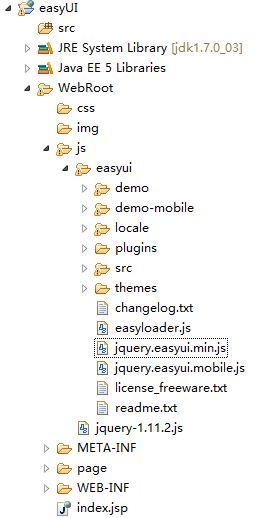
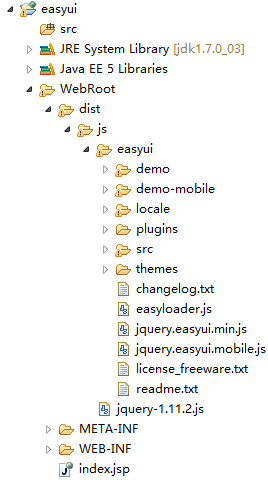
添加了代码

diff --git a/_posts/jQuery-easyui基础教程/2016-08-12-jQuery-easyui基础教程-lession02.md b/_posts/jQuery-easyui基础教程/2016-08-12-jQuery-easyui基础教程-lession02.md
@@ -19,97 +19,86 @@ description:
 
 ## Dialog简介
 
-对话框是一种特殊类型的窗口，在现在的系统中使用越来越多。如，添加，修改，删除的提示等功能，使用对话框更加贴近用户的要求，开发人员开发程序也更加简单。它在顶部有一个工具栏，在底部有一个按钮栏。对话框窗口右上角只有一个关闭按钮，用户可以配置对话框的行为来显示其他工具，如collapsible,minimizable,maximizable工具等。默认情况下，对话框（Dialog）不能改变大小，但是用户可以设置 resizable 属性为 true，使其可以改变大小。 效果如下图：
+对话框是一种特殊类型的窗口，在现在的系统中使用越来越多。如，添加，修改，删除的提示等功能，使用对话框更加贴近用户的要求，开发人员开发程序也更加简单。它在顶部有一个工具栏，在底部有一个按钮栏。对话框窗口右上角只有一个关闭按钮，用户可以配置对话框的行为来显示其他工具，如collapsible,minimizable,maximizable工具等。默认情况下，对话框（Dialog）不能改变大小，但是用户可以设置resizable属性为true，使其可以改变大小。 效果如下图：
 
 ![image](http://i.imgur.com/XmddMrE.png)
 
 ## 开发Dialog程序
 
+
 ##### 方式一：使用纯HTML代码
 
 ```
-<!DOCTYPE html>   
-<html>  
-	<head>  
-		<title>dialog01.html</title>   
-		<link rel="stylesheet" type="text/css" href="/easyUI/js/easyui/themes/default/easyui.css">  
-		<link rel="stylesheet" type="text/css" href="/easyUI/js/easyui/themes/icon.css">   
-		<script type="text/javascript" src="/easyUI/js/jquery-1.11.2.js"></script>   
-		<script type="text/javascript" src="/easyUI/js/easyui/easyloader.js"></script>   
-	</head>   
-	<body>  
-		<div id="dd" class="easyui-dialog" title="My Dialog" style="width:400px;height:200px;" data-options="iconCls:'icon-save',resizable:true,modal:true">   
-			Dialog Content.   
-		</div>  
-	</body>  
-</html>  
+<link rel="stylesheet" type="text/css" href="../dist/js/easyui/themes/default/easyui.css">
+<link rel="stylesheet" type="text/css" href="../dist/js/easyui/themes/icon.css">
+<script type="text/javascript" src="../dist/js/jquery-1.11.2.js"></script>
+<script type="text/javascript" src="../dist/js/easyui/easyloader.js"></script>  
+
+<div id="dd" class="easyui-dialog" title="My Dialog" style="width:400px;height:200px;" data-options="iconCls:'icon-save',resizable:true,modal:true">   
+	Dialog Content.   
+</div>  
 ```
 
+**参考代码:```[02/dialog01.html](https://coding.net/u/lanqiao/p/easyuiDemo/git/blob/master/WebRoot/02/dialog01.html)```**  
+
 Tip: Dialog所需的属性可以类似于以上代码放到data-options属性中，此外也可以像HTML属性一样直接跟在开始标签内。 **强烈建议放到data-options属性中。**
+
 
 ##### 方式二：使用JS代码设置
 
 ```
-<!DOCTYPE html>
-<html>  
-	<head> 
-		<title>dialog02.html</title>  
-		<link rel="stylesheet" type="text/css" href="/easyUI/js/easyui/themes/default/easyui.css"> 
-		<link rel="stylesheet" type="text/css" href="/easyUI/js/easyui/themes/icon.css">  
-		<script type="text/javascript" src="/easyUI/js/jquery-1.11.2.js"></script> 
-		<script type="text/javascript" src="/easyUI/js/easyui/easyloader.js"></script> 
-		<script type="text/javascript">  
-			$(function(){ 
-				easyloader.load("dialog",function(){ 
-					$("#dd").dialog({  
-						title: 'My Dialog',     
-						width: 400,   
-						height: 200,    
-						closed: false,    
-						modal: true 
-					});  
-				});  
+<link rel="stylesheet" type="text/css" href="../dist/js/easyui/themes/default/easyui.css">
+<link rel="stylesheet" type="text/css" href="../dist/js/easyui/themes/icon.css">
+<script type="text/javascript" src="../dist/js/jquery-1.11.2.js"></script>
+<script type="text/javascript" src="../dist/js/easyui/easyloader.js"></script>
+<script type="text/javascript">  
+	$(function(){ 
+		easyloader.load("dialog",function(){ 
+			$("#dd").dialog({  
+				title: 'My Dialog',     
+				width: 400,   
+				height: 200,    
+				closed: false,    
+				modal: true 
 			});  
-		</script> 
-	</head>  
-	<body>  
-	<div id="dd">  
+		});  
+	});  
+</script> 
+
+<div id="dd">  
 	Dialog Content.  
-	</div>  
-	</body>  
-</html> 
+</div>  
 ```
 
-此外，也可以不引入easyloader.js文件，引入具体所需的js文件。代码如下：
+**参考代码:```[02/dialog02.html](https://coding.net/u/lanqiao/p/easyuiDemo/git/blob/master/WebRoot/02/dialog02.html)```**    
+
+此外，也可以不引入easyloader.js文件，引入jquery.easyui.min.js文件。代码如下：
 
 ```
-<!DOCTYPE html>  
-<html>  
-	<head>  
-		<link rel="stylesheet" type="text/css" href="/easyUI/js/easyui/themes/default/easyui.css">  
-		<link rel="stylesheet" type="text/css" href="/easyUI/js/easyui/themes/icon.css">  
-		<script type="text/javascript" src="/easyUI/js/jquery-1.11.2.js"></script>  
-		<script type="text/javascript" src="/easyUI/js/easyui/jquery.easyui.min.js"></script> 
-		<script type="text/javascript"> 
-			$(function(){  
-				$("#dd").dialog({ 
-					title: 'My Dialog',   
-					iconCls:'icon-save',  
-					width: 400,   
-					height: 200,   
-					closed: false,
-					modal: true 
-				}); 
-			});  
-		</script>  
-	</head>  
-	<body>  
-		<div id="dd"> 
-			Dialog Content. 
-		</div>  
-	</body> 
-</html> 
+<link rel="stylesheet" type="text/css" href="../dist/js/easyui/themes/default/easyui.css">
+<link rel="stylesheet" type="text/css" href="../dist/js/easyui/themes/icon.css">
+<script type="text/javascript" src="../dist/js/jquery-1.11.2.js"></script>
+<script type="text/javascript" src="../dist/js/easyui/jquery.easyui.min.js"></script> 
+<script type="text/javascript"> 
+	$(function(){  
+		$("#dd").dialog({ 
+			title: 'My Dialog',   
+			iconCls:'icon-save',  
+			width: 400,   
+			height: 200,   
+			closed: false,
+			modal: true 
+		}); 
+	});  
+</script>  
+
+<div id="dd"> 
+	Dialog Content. 
+</div>  
 ```
+
+**参考代码:```[02/dialog03.html](https://coding.net/u/lanqiao/p/easyuiDemo/git/blob/master/WebRoot/02/dialog03.html)```**  
+
 
 ## Dialog常用属性
 
@@ -247,6 +236,8 @@ Tip: Dialog所需的属性可以类似于以上代码放到data-options属性中
 </body>   
 ```
 
+**参考代码:```[02/dialog04.html](https://coding.net/u/lanqiao/p/easyuiDemo/git/blob/master/WebRoot/02/dialog04.html)```**  
+
 效果如下：  
 
 ![image](http://i.imgur.com/XB52TZF.png)  
@@ -327,8 +318,8 @@ JS代码
 	function closeDialog(){
 		$('#dd').dialog('close');
 	}
-	function skip(){
-		$('#dd').panel('refresh','a.html');
+	function skip() {
+		$('#dd').panel('refresh', '../index.jsp');
 	}
 </script>
 ```
@@ -348,7 +339,9 @@ HTML代码
 </div>  
 ```
 
-Tip: 当点击关闭按钮时会弹出确认框。当点击跳转按钮时对话框中将显示a.html页面中的内容。 
+**参考代码:```[02/dialog05.html](https://coding.net/u/lanqiao/p/easyuiDemo/git/blob/master/WebRoot/02/dialog05.html)```**  
+
+Tip: 当点击关闭按钮时会弹出确认框。当点击跳转按钮时对话框中将显示index.jsp页面中的内容。 
 
  
 以上内容便是Dialog的普通用法。

diff --git a/_posts/jQuery-easyui基础教程/2016-09-02-jQuery-easyui基础教程-lession23.md b/_posts/jQuery-easyui基础教程/2016-09-02-jQuery-easyui基础教程-lession23.md
@@ -62,10 +62,10 @@ description:
  
 效果如上图。
 
-**自定义下拉框使用Javascript创建一个\<select\>或\<input\>元素。注意：使用自定义下拉框不能通过标签的方式进行创建。** 
+**自定义下拉框使用Javascript创建一个```<select>```或```<input>```元素。注意：使用自定义下拉框不能通过标签的方式进行创建。** 
 
 
-## Combo常用属性
+## Combo常用属性  
 
 <table class="table table-bordered table-striped table-condensed">
    <tr>
@@ -127,6 +127,7 @@ description:
 	  <td>string</td>
 	  <td>面板对齐方式。可用值有：'left','right'。</td>
 	  <td>200</td>
+   </tr>
    <tr>
       <td>multiple</td>
 	  <td>boolean</td>
@@ -187,11 +188,11 @@ description:
 	  <td>在用户按下键的时候调用一个函数。</td>
 	  <td></td>
    </tr>
-</table>
+</table>  
 
 案例一：  
 
-代码如下：
+代码如下：  
 
 ```
 $('#cc').combo({
@@ -251,7 +252,7 @@ $('#cc').combo({
    <tr>
       <td>hidePanel</td> 
       <td>none</td> 
-      <td>隐藏下拉面板。/td>
+      <td>隐藏下拉面板。</td>
    </tr>
    <tr>
       <td>disable</td> 
@@ -556,7 +557,7 @@ $('#cc').combobox({
 </table> 
 
 
-##### 实现级联下拉列表  
+## 实现级联下拉列表  
 
 HTML代码：  
 

diff --git a/_posts/jQuery-easyui基础教程/2016-08-25-jQuery-easyui基础教程-lession17.md b/_posts/jQuery-easyui基础教程/2016-08-25-jQuery-easyui基础教程-lession17.md
@@ -25,7 +25,7 @@ description:
 
 ## 开发Tree程序
 
-一个树形菜单（Tree）可以从标记创建。easyui 树形菜单（Tree）也可以定义在 \<ul\> 元素中。无序列表的 \<ul\> 元素提供一个基础的树（Tree）结构。每一个 \<li\> 元素将产生一个树节点，子 \<ul\> 元素将产生一个子树节点。
+一个树形菜单（Tree）可以从标记创建。easyui 树形菜单（Tree）也可以定义在 ```<ul>``` 元素中。无序列表的 ```<ul>``` 元素提供一个基础的树（Tree）结构。每一个 ```<li>``` 元素将产生一个树节点，子 ```<ul>``` 元素将产生一个子树节点。
 
 ```
 <ul id="tt" class="easyui-tree">
@@ -53,7 +53,7 @@ description:
 ![image](http://i.imgur.com/rxscZhv.png)
 
 
-**树控件也可以定义在一个空\<ul\>元素中并使用Javascript加载数据。**
+**树控件也可以定义在一个空```<ul>```元素中并使用Javascript加载数据。**
 
 ``` 
 <ul id="tt"></ul>

diff --git a/_posts/jQuery-easyui基础教程/2016-08-19-jQuery-easyui基础教程-lession11.md b/_posts/jQuery-easyui基础教程/2016-08-19-jQuery-easyui基础教程-lession11.md
@@ -19,7 +19,7 @@ description:
 ## Accordion简介
 
   
-分类空间允许用户使用多面板，但在同一时间只会显示一个。每个面板都内建支持展开和折叠功能。点击一个面板的标题将会展开或折叠面板主体。面板内容可以通过指定的'href'属性使用ajax方式读取面板内容。用户可以定义一个被默认选中的面板，如果未指定，那么第一个面板就是默认的。效果如图：
+分类空间允许用户使用多面板，但在同一时间只会显示一个。每个面板都内建支持展开和折叠功能。点击一个面板的标题将会展开或折叠面板主体。面板内容可以通过指定的```href```属性使用ajax方式读取面板内容。用户可以定义一个被默认选中的面板，如果未指定，那么第一个面板就是默认的。效果如图：
 
 ![image](http://i.imgur.com/cJZEgtY.png) 
 

diff --git a/_posts/jQuery-easyui基础教程/2016-08-23-jQuery-easyui基础教程-lession16.md b/_posts/jQuery-easyui基础教程/2016-08-23-jQuery-easyui基础教程-lession16.md
@@ -19,7 +19,7 @@ description:
 ## LinkButton简介
 
   
-按钮组件使用超链接按钮创建。它使用一个普通的\<a\>标签进行展示。它可以同时显示一个图标和文本,或只有图标或文字。按钮的宽度可以动态和折叠/展开以适应它的文本标签。效果如图：
+按钮组件使用超链接按钮创建。它使用一个普通的```<a>```标签进行展示。它可以同时显示一个图标和文本,或只有图标或文字。按钮的宽度可以动态和折叠/展开以适应它的文本标签。效果如图：
 
 ![image](http://i.imgur.com/Sdd0Tr4.png)
 

diff --git a/_posts/jQuery-easyui基础教程/2016-08-18-jQuery-easyui基础教程-lession08.md b/_posts/jQuery-easyui基础教程/2016-08-18-jQuery-easyui基础教程-lession08.md
@@ -29,7 +29,7 @@ description:
 <a href="#" title="This is the tooltip message." class="easyui-tooltip">Hover me</a>
 ```  
 
-只需要简单的给a标签添加一个指定的class样式即有提示框的效果。效果如下图：
+只需要简单的给```<a>```标签添加一个指定的class样式即有提示框的效果。效果如下图：
 
 ![image](http://i.imgur.com/9bQaUM9.png)
 
